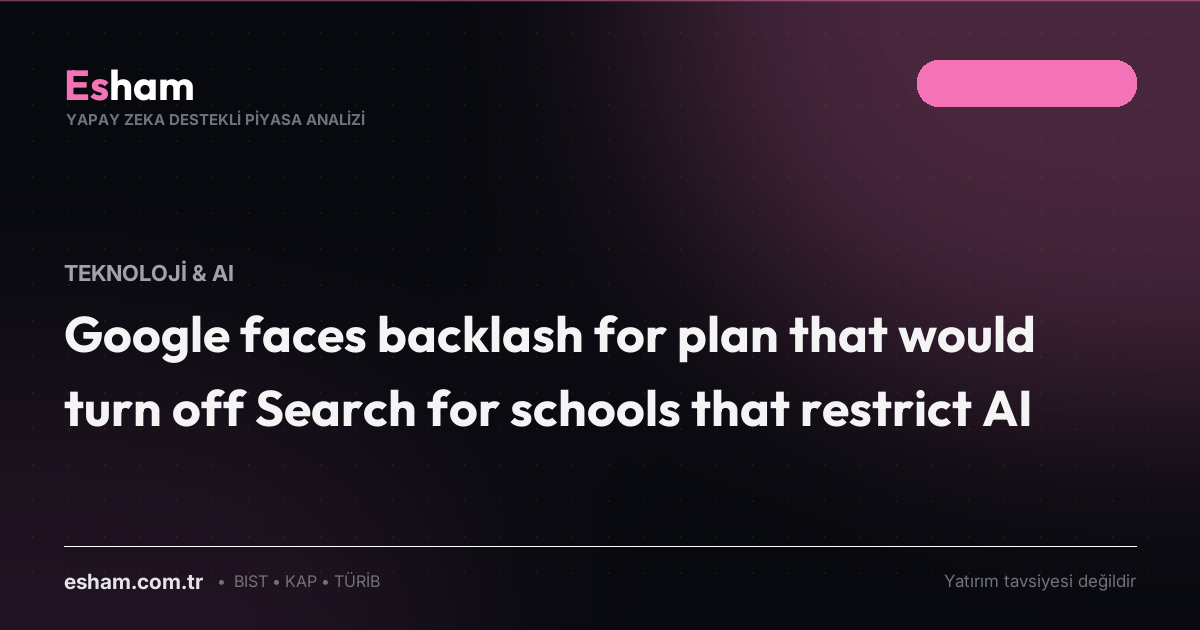
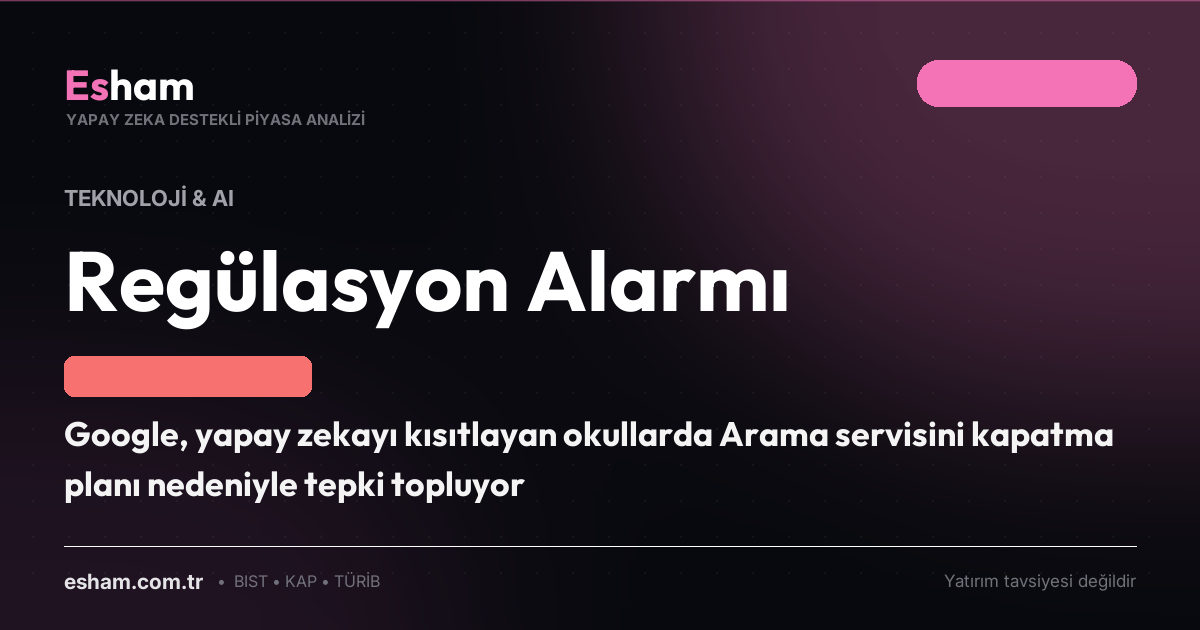
fix(translation): add automated Turkish translation engine, strict language guardrails, and translate English reports

Changed region(s): [[0.0308, 0.3921, 0.925, 0.7238], [0.0308, 0.754, 0.4317, 0.8143], [0.0308, 0.3016, 0.2158, 0.3317]]

diff --git a/bot/esham/translation.py b/bot/esham/translation.py
@@ -1,0 +1,125 @@
+"""Merkezi Türkçe Çeviri ve Dil Denetim Modülü.
+
+Esham kurumsal bir Türk finansal istihbarat platformudur.
+İngilizce başlık veya metinlerin ham halde sitede veya sosyal medyada yayınlanması kesinlikle yasaktır.
+Bu modül:
+1. Metnin İngilizce olup olmadığını tespit eder (is_mostly_english).
+2. İngilizce metinleri akıcı, kurumsal Türkçe finans diline çevirir (translate_to_turkish).
+3. Çevrilemeyen veya İngilizce kalan içerikleri filtreler / engeller.
+"""
+from __future__ import annotations
+
+import re
+from typing import Optional
+
+import requests
+
+from .config import get_logger
+
+log = get_logger(__name__)
+
+ENGLISH_COMMON_WORDS = {
+    "the", "be", "to", "of", "and", "a", "in", "that", "have", "i",
+    "it", "for", "not", "on", "with", "he", "as", "you", "do", "at",
+    "this", "but", "his", "by", "from", "they", "we", "say", "her",
+    "she", "or", "an", "will", "my", "one", "all", "would", "there",
+    "their", "what", "so", "up", "out", "if", "about", "who", "get",
+    "which", "go", "me", "when", "make", "can", "like", "time", "no",
+    "just", "him", "know", "take", "people", "into", "year", "your",
+    "good", "some", "could", "them", "see", "other", "than", "then",
+    "now", "look", "only", "come", "its", "over", "think", "also",
+    "back", "after", "use", "two", "how", "our", "work", "first",
+    "well", "way", "even", "new", "want", "because", "any", "these",
+    "give", "day", "most", "us", "is", "are", "was", "were", "been",
+    "has", "had", "faces", "backlash", "schools", "plan", "restrict",
+    "hits", "rewind", "undoing", "years", "expansion", "tried", "recaps",
+    "theyre", "useful", "unsettling", "crypto", "market", "stocks",
+    "jump", "drops", "warns", "amid", "says", "deal", "buys", "sec",
+}
+
+TURKISH_SPECIFIC_CHARS = set("çğıöşüÇĞİÖŞÜ")
+
+
+def is_mostly_english(text: str) -> bool:
+    """Verilen metnin İngilizce olup olmadığını tespit eder."""
+    if not text or not text.strip():
+        return False
+
+    clean_text = re.sub(r"[^a-zA-ZçğıöşüÇĞİÖŞÜ\s]", " ", text)
+    words = [w.lower() for w in clean_text.split() if len(w) > 1]
+    if not words:
+        return False
+
+    has_tr_char = any(c in TURKISH_SPECIFIC_CHARS for c in text)
+    eng_matches = sum(1 for w in words if w in ENGLISH_COMMON_WORDS)
+    eng_ratio = eng_matches / len(words)
+
+    # 1. 3 veya daha fazla İngilizce stop-word varsa kesin İngilizcedir
+    if eng_matches >= 3:
+        return True
+    # 2. 2 eşleşme ve kelimelerin en az %25'i İngilizce ise
+    if eng_matches >= 2 and eng_ratio >= 0.25:
+        return True
+    # 3. Türkçe karakter yoksa ve kısa bir başlıkta İngilizce stop-word varsa
+    if not has_tr_char and eng_matches >= 1 and len(words) <= 5:
+        return True
+
+    return False
+
+
+def translate_to_turkish(text: str, timeout: int = 6) -> str:
+    """İngilizce metni kurumsal ve akıcı Türkçeye çevirir.
+
+    Google Translate public API endpoint'ini kullanır (ücretsiz, anahtarsız, hızlı).
+    Başarısız olursa boş string döner.
+    """
+    if not text or not text.strip():
+        return ""
+
+    if not is_mostly_english(text):
+        return text.strip()
+
+    try:
+        url = "https://translate.googleapis.com/translate_a/single"
+        params = {
+            "client": "gtx",
+            "sl": "auto",
+            "tl": "tr",
+            "dt": "t",
+            "q": text,
+        }
+        headers = {
+            "User-Agent": "Mozilla/5.0 (Windows NT 10.0; Win64; x64) AppleWebKit/537.36"
+        }
+        resp = requests.get(url, params=params, headers=headers, timeout=timeout)
+        resp.raise_for_status()
+        data = resp.json()
+        translated = "".join([item[0] for item in data[0] if item and item[0]])
+        translated = translated.strip()
+
+        if translated and not is_mostly_english(translated):
+            log.info("İngilizce metin Türkçeye çevrildi: '%s' -> '%s'", text[:50], translated[:50])
+            return translated
+    except Exception as exc:
+        log.warning("Çeviri servisi hatası (%s): %s", text[:40], exc)
+
+    return ""
+
+
+def ensure_turkish(headline: str, fallback_prompt: str = "") -> str:
+    """Başlığın mutlaka Türkçe olmasını garanti eder.
+
+    İngilizce ise çevirir; çevrilemezse boş döner (asla İngilizce bırakmaz).
+    """
+    if not headline or not headline.strip():
+        return ""
+
+    if not is_mostly_english(headline):
+        return headline.strip()
+
+    translated = translate_to_turkish(headline)
+    if translated and not is_mostly_english(translated):
+        return translated
+
+    log.warning("Başlık Türkçeleştirilemedi; yayınlanması engellendi: '%s'", headline[:60])
+    return ""

diff --git a/bot/esham/sources/news_detector.py b/bot/esham/sources/news_detector.py
@@ -22,6 +22,7 @@ from datetime import datetime, timezone
 from typing import Literal
 
 from ..config import get_logger
+from ..translation import ensure_turkish, translate_to_turkish, is_mostly_english
 from .global_macro import GlobalMacroSource, MacroTicker
 from .sector import SectorMove, SectorSource
 
@@ -520,18 +521,22 @@ class NewsDetector:
                         "sanction", "jobs", "payrolls", "cpi", "ppi", "central bank", "faiz",
                     ))
                 if is_major:
-                    translated = f"SON DAKİKA: {item.title}"
+                    translated = translate_to_turkish(item.title)
+                    if not translated or is_mostly_english(translated):
+                        continue
                 else:
                     self._seen_keys.add(key)
                     self._seen_news_keys.add(key)
                     self._state.save_seen_news(self._seen_news_keys)
                     continue
 
+            headline = ensure_turkish(translated.removeprefix("SON DAKİKA: ").strip())
+            if not headline:
+                continue
+
             self._seen_keys.add(key)
             self._seen_news_keys.add(key)
             self._state.save_seen_news(self._seen_news_keys)
-
-            headline = translated.removeprefix("SON DAKİKA: ").strip()
             target_category = "gundem" if is_domestic else "global"
             label = "Ekonomi Gündemi" if is_domestic else "Küresel Piyasalar"
             tags = ["Gündem", "Ekonomi", "Türkiye"] if is_domestic else ["Küresel", "Makro", "Piyasalar"]
@@ -545,7 +550,7 @@ class NewsDetector:
                 headline=headline,
                 key=key,
                 tags=tags,
-                details=item.description,
+                details=translate_to_turkish(item.description) if (item.description and is_mostly_english(item.description)) else (item.description or ""),
                 source_url=item.link,
                 source_name=item.source or ("Türkiye Basını" if is_domestic else "Küresel Ajanslar"),
                 custom_category=target_category,
@@ -646,11 +651,15 @@ class NewsDetector:
                     "rally", "crash", "ath", "record", "hack", "whale", "halving", "inflow",
                 ))
                 if is_major:
-                    translated = f"SON DAKİKA: {item.title}"
+                    translated = translate_to_turkish(item.title)
+                    if not translated or is_mostly_english(translated):
+                        continue
                 else:
                     continue
 
-            headline = translated.removeprefix("SON DAKİKA: ").strip()
+            headline = ensure_turkish(translated.removeprefix("SON DAKİKA: ").strip())
+            if not headline:
+                continue
             event = MarketEvent(
                 kind="KRIPTO_HAREKET",
                 label="Kripto Haber",
@@ -660,7 +669,7 @@ class NewsDetector:
                 headline=headline,
                 key=key,
                 tags=["Kripto", "DijitalVarlıklar"],
-                details=item.description,
+                details=translate_to_turkish(item.description) if (item.description and is_mostly_english(item.description)) else (item.description or ""),
                 source_url=item.link,
                 source_name=item.source or "Kripto Basını",
                 custom_category="kripto",
@@ -716,11 +725,15 @@ class NewsDetector:
                     "acquisition", "buys", "deal", "billion", "data center", "robot",
                 ))
                 if is_major_tech:
-                    translated = f"SON DAKİKA: {item.title}"
+                    translated = translate_to_turkish(item.title)
+                    if not translated or is_mostly_english(translated):
+                        continue
                 else:
                     continue
 
-            headline = translated.removeprefix("SON DAKİKA: ").strip()
+            headline = ensure_turkish(translated.removeprefix("SON DAKİKA: ").strip())
+            if not headline:
+                continue
             event = MarketEvent(
                 kind="TEKNOLOJI_HAREKET",
                 label="Teknoloji & AI",
@@ -730,7 +743,7 @@ class NewsDetector:
                 headline=headline,
                 key=key,
                 tags=["Teknoloji", "YapayZeka", "AI"],
-                details=item.description,
+                details=translate_to_turkish(item.description) if (item.description and is_mostly_english(item.description)) else (item.description or ""),
                 source_url=item.link,
                 source_name=item.source or "Teknoloji Basını",
                 custom_category="teknoloji",

diff --git a/bot/esham/ai/analyzer.py b/bot/esham/ai/analyzer.py
@@ -8,6 +8,7 @@ Tasarım ilkeleri:
 from __future__ import annotations
 
 from ..config import get_logger, settings
+from ..translation import ensure_turkish, translate_to_turkish, is_mostly_english
 from ..sources import MarketSnapshot
 from .client import LlmClient
 
@@ -122,7 +123,12 @@ Gelişmenin ilgili ekosisteme etkisi (Yapay Zeka/Teknoloji için: bilgi işlem k
     def _template_event_analysis(event: "MarketEvent", macro_context: str = "") -> tuple[str, str, str]:
         """AI devre dışıyken veya başarısız olduğunda zengin, yapılandırılmış finansal analiz üretir."""
         details_clean = getattr(event, "details", "").strip()
+        if details_clean and is_mostly_english(details_clean):
+            details_clean = translate_to_turkish(details_clean)
+
         first_clause = event.headline.split('.')[0].rstrip(" ,;:")
+        if is_mostly_english(first_clause):
+            first_clause = ensure_turkish(first_clause) or first_clause
 
         if event.kind == "TEKNOLOJI_HAREKET":
             summary = f"{first_clause}; yapay zeka altyapısı, donanım talebi ve teknoloji hisseleri üzerindeki etkileriyle takip ediliyor."
@@ -292,9 +298,12 @@ Haber Başlığı: {news_title}
 
         # Temizle
         result = result.strip().strip('"').strip("'")
-        if result.upper().startswith("SON DAKİKA:"):
-            return result
-        return f"SON DAKİKA: {result}"
+        clean_text = result.removeprefix("SON DAKİKA:").removeprefix("SON DAKIKA:").strip()
+        if is_mostly_english(clean_text):
+            clean_text = translate_to_turkish(clean_text)
+            if not clean_text or is_mostly_english(clean_text):
+                return None
+        return f"SON DAKİKA: {clean_text}"
 
     def generate_news_analysis(
         self,

diff --git a/bot/esham/guardrails.py b/bot/esham/guardrails.py
@@ -12,6 +12,7 @@ from __future__ import annotations
 
 from .config import get_logger, settings
 from .evals.checks import contains_investment_advice
+from .translation import is_mostly_english
 
 log = get_logger(__name__)
 
@@ -29,6 +30,8 @@ def validate_report(title: str, summary: str, body: str) -> list[str]:
     violations: list[str] = []
     if contains_investment_advice(text):
         violations.append("örtük/açık yatırım tavsiyesi kalıbı")
+    if is_mostly_english(title):
+        violations.append(f"başlık Türkçe değil / İngilizce kaldı: {title[:50]}")
     return violations
 
 
@@ -38,6 +41,8 @@ def validate_tweet(text: str) -> list[str]:
         violations.append(f"tweet {TWEET_LIMIT} karakteri aşıyor ({len(text)})")
     if contains_investment_advice(text):
         violations.append("örtük/açık yatırım tavsiyesi kalıbı")
+    if is_mostly_english(text):
+        violations.append(f"tweet Türkçe değil / İngilizce kaldı: {text[:50]}")
     return violations
 
 

diff --git a/bot/esham/pipeline.py b/bot/esham/pipeline.py
@@ -937,7 +937,13 @@ def run_news_report(
     # ---- Makro/sektör olay modu --------------------------------------------------
     else:
         assert event is not None  # mypy
+        from .translation import ensure_turkish, is_mostly_english
         title_line = event.headline.split('\n')[0]
+        if is_mostly_english(title_line):
+            title_line = ensure_turkish(title_line)
+            if not title_line:
+                log.error("Haber başlığı İngilizce ve Türkçeleştirilemedi; iptal: %s", event.headline[:60])
+                return None
         title = title_line
         summary = title_line
         category = event.category

diff --git a/bot/esham/publishing/content_store.py b/bot/esham/publishing/content_store.py
@@ -132,6 +132,14 @@ class ContentStore:
         if settings.paused:
             log.info("[PAUSED] Rapor yayını atlandı: %s", draft.title)
             return None
+
+        # Başlık İngilizce ise son emniyet kilidi olarak Türkçeleştir
+        from ..translation import ensure_turkish, is_mostly_english
+        if is_mostly_english(draft.title):
+            tr_title = ensure_turkish(draft.title)
+            if tr_title:
+                draft.title = tr_title
+
         violations = validate_report(draft.title, draft.summary, draft.body)
         if not allow(f"rapor '{draft.title}'", violations):
             return None
